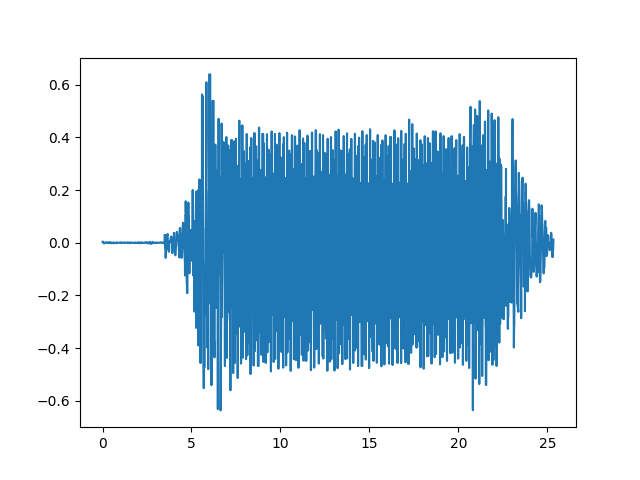
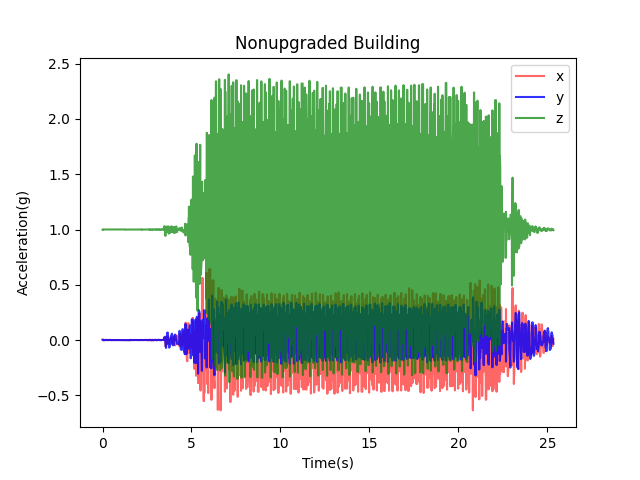
Shake Table Data

diff --git a/ShakeTableData.py b/ShakeTableData.py
@@ -4,8 +4,15 @@ import matplotlib.pyplot as plt
 plotdata=pd.read_csv('Sensor Data CalPolyEpic 2021 - Data.csv')
 
 x=plotdata['Time']
-y=plotdata['ax']
-
-plt.plot(x, y)
+ax=plotdata['ax']
+ay=plotdata['ay']
+az=plotdata['az']
+plt.plot(x, ax, color='red', alpha = 0.6)
+plt.plot(x, ay, color='blue', alpha = 0.8)
+plt.plot(x,az, color='green', alpha = 0.7)
+plt.legend("xyz")
+plt.ylabel("Acceleration(g)")
+plt.xlabel("Time(s)")
+plt.title("Nonupgraded Building")
 plt.savefig('DataPlot.png')
 plt.show()
